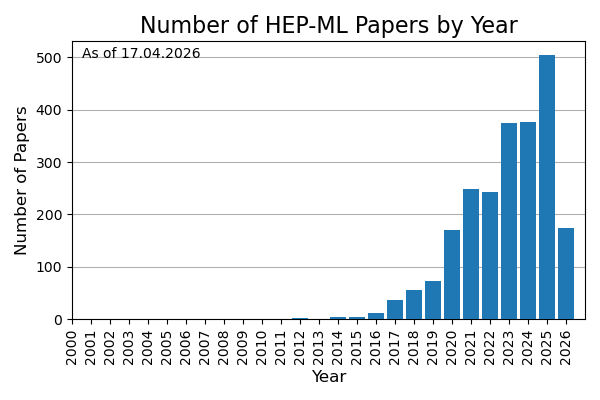
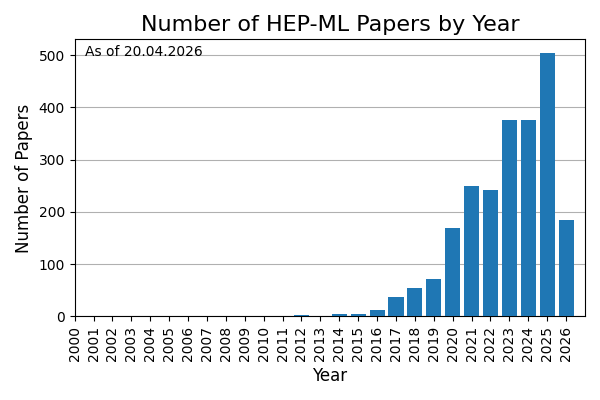
Update 26 04 20 (#274)
* Weekly update CW 16

* Update check_inspire

* [pre-commit.ci] auto fixes from pre-commit.com hooks

for more information, see https://pre-commit.ci

* Fix missing citations

* [pre-commit.ci] auto fixes from pre-commit.com hooks

for more information, see https://pre-commit.ci

---------

diff --git a/HEPML.tex b/HEPML.tex
@@ -95,7 +95,7 @@ This review was built with the help of the HEP-ML community, the INSPIRE REST AP
 			\\\textit{Neutrino detectors are very large in order to have a sizable rate of neutrino detection.  The entire neutrino interaction can be characterized to distinguish different neutrino flavors.}
 			\item \textbf{Direct Dark Matter Detectors}~\cite{Amaro:2025ssv,Cerdeno:2024uqt,Ghrear:2024rku,XENONCollaboration:2023dar,Biassoni:2023lih,Li:2022tvg,Liang:2021nsz,Herrero-Garcia:2021goa,Coarasa:2021fpv,McDonald:2021hus,Golovatiuk:2021lqn,Khosa:2019qgp,Akerib:2020aws,Ilyasov_2020}
 			\\\textit{Dark matter detectors are similar to neutrino detectors, but aim to achieve `zero' background.}
-			\item \textbf{Cosmology, Astro Particle, and Cosmic Ray physics}~\cite{Santelj:2026dma,Lai:2026hhg,Mikuni:2025ocp,Romano:2025bxp,TelescopeArray:2025lcs,Li:2025djo,Choudhury:2025hqg,PierreAuger:2025cic,Hallin:2025wyc,Macias:2025crt,IceCube:2025swy,Heneka:2025fpe,Erdmann:2025xpm,Takahashi:2024bxx,Heisig:2024jkk,Ahn:2024lkh,Hatefi:2024asc,Yoon:2024pbz,Riehn:2024prp,Kalaczynski:2024wxa,Thakur:2024mxs,Guo:2023mhf,Hatefi:2023gpj,Krastev:2023fnh,Cai:2023gol,Carvalho:2023ele,Zhou:2023cfs,Kim:2023wuk,Goriely:2022upe,Nguyen:2022ldb,Zhang:2022djp,Abel:2022nje,Sun:2022djj,Glauch:2022xth,Montel:2022fhv,De:2022sde,Chen:2019avc,Bister:2021arb,Mishra-Sharma:2021oxe,Mishra-Sharma:2021nhh,Sabiu:2021aea,Kahlhoefer:2021sha,List:2021aer,Vago:2021grx,Aizpuru:2021vhd,Ikeda:2021sxm,Shih:2021kbt,1853992,Arjona:2021hmg,Han:2021kjx,Droz:2021wnh,huang2021convolutionalneuralnetwork,Conceicao:2021xgn,gonzalez2021tackling,Balazs:2021uhg,Aab:2021rcn,Verma:2020gnq,Tsai:2020vcx,Brehmer:2019jyt,Ostdiek:2020cqz}
+			\item \textbf{Cosmology, Astro Particle, and Cosmic Ray physics}~\cite{Ahmed:2026agd,Santelj:2026dma,Lai:2026hhg,Mikuni:2025ocp,Romano:2025bxp,TelescopeArray:2025lcs,Li:2025djo,Choudhury:2025hqg,PierreAuger:2025cic,Hallin:2025wyc,Macias:2025crt,IceCube:2025swy,Heneka:2025fpe,Erdmann:2025xpm,Takahashi:2024bxx,Heisig:2024jkk,Ahn:2024lkh,Hatefi:2024asc,Yoon:2024pbz,Riehn:2024prp,Kalaczynski:2024wxa,Thakur:2024mxs,Guo:2023mhf,Hatefi:2023gpj,Krastev:2023fnh,Cai:2023gol,Carvalho:2023ele,Zhou:2023cfs,Kim:2023wuk,Goriely:2022upe,Nguyen:2022ldb,Zhang:2022djp,Abel:2022nje,Sun:2022djj,Glauch:2022xth,Montel:2022fhv,De:2022sde,Chen:2019avc,Bister:2021arb,Mishra-Sharma:2021oxe,Mishra-Sharma:2021nhh,Sabiu:2021aea,Kahlhoefer:2021sha,List:2021aer,Vago:2021grx,Aizpuru:2021vhd,Ikeda:2021sxm,Shih:2021kbt,1853992,Arjona:2021hmg,Han:2021kjx,Droz:2021wnh,huang2021convolutionalneuralnetwork,Conceicao:2021xgn,gonzalez2021tackling,Balazs:2021uhg,Aab:2021rcn,Verma:2020gnq,Tsai:2020vcx,Brehmer:2019jyt,Ostdiek:2020cqz}
 			\\\textit{Machine learning is often used in astrophysics and cosmology in different ways than terrestrial particle physics experiments due to a general divide between Bayesian and Frequentist statistics.  However, there are many similar tasks and a growing number of proposals designed for one domain that apply to the other.  See also https://github.com/georgestein/ml-in-cosmology.}
 			\item \textbf{Tracking}~\cite{Coccaro:2026jod,Renusch:2026tko,Argenton:2026zxr,Das:2026mff,Liyan:2026pbd,Reuter:2026pdv,CMS:2026znb,Dispoto:2025zyz,Coccaro:2025rfu,Govil:2025nvy,Parpillon:2025tlm,Blankestijn:2025hvg,Caron:2025yaa,Condren:2025czc,Miller:2025svo,Coradin:2025ees,VanStroud:2024fau,Caron:2024cyo,Guiang:2024qzk,Gavalian:2024icb,Huang:2024voo,Allaire:2023llb,Allaire:2023dfg,Mieskolainen:2023hkz,Akar:2023zhd,Knipfer:2023zrv,Bae:2023eec,Abidi:2022ogh,Sun:2022bxx,Akram:2022zmj,Bakina:2022mhs,Alonso-Monsalve:2022zlm,Wang:2022oer,Goncharov:2021wvd,Huth:2021zcm,Lavrik:2021zgt,Edmonds:2021lzd,Dezoort:2021kfk,Ju:2021ayy,Thais:2021qcb,Akar:2021gns,Biscarat:2021dlj,goto2021development,Amrouche:2021tlm,Fox:2020hfm,Siviero:2020tim,Choma:2020cry,Shlomi:2020ufi,Akar:2020jti,Ju:2020xty,Amrouche:2019wmx,Farrell:2018cjr,Farrell:DLPS2017}
 			\\\textit{Charged particle tracking is a challenging pattern recognition task.  This category is for various classification tasks associated with tracking, such as seed selection.}
@@ -113,7 +113,7 @@ This review was built with the help of the HEP-ML community, the INSPIRE REST AP
                                   \\\textit{When no labels are provided, the learning is called unsupervised.}
 				\item \textbf{Reinforcement Learning}~\cite{Adriamirado:2026rvn,Alexander:2026lpw,deSouza:2026sta,Zoccheddu:2026cjr,Giarnetti:2025mit,Mendizabal:2025sbf,Dillon:2025dxr,Baretz:2025zsv,Zeng:2025xbh,Nishimura:2024apb,Angloher:2023oya,Alvestad:2023jgl,Nishimura:2023wdu,Dersy:2022bym,Windisch:2021mem,Cranmer:2021gdt,Harvey:2021oue,John:2020sak,Brehmer:2020brs,Carrazza:2019efs}
 				\\\textit{Instead of learning to distinguish different types of examples, the goal of reinforcement learning is to learn a strategy (policy).  The prototypical example of reinforcement learning in learning a strategy to play video games using some kind of score as a feedback during the learning.}
-				\item \textbf{Quantum Machine Learning}~\cite{Addepalli:2026hwb,Rodrigo:2026atx,Argenton:2026zxr,Knipfer:2026kng,Islam:2026baq,Le:2026xub,Rodrigo:2026xom,Napolitano:2025mhl,MartinezdeLejarzaSamper:2025wuy,Odagiu:2025ifc,Okawa:2025ley,AitHaddou:2025fam,Bal:2025yxb,Maier:2025ppr,Ali:2025gni,Le:2025swl,Pyretzidis:2025stx,Rodriguez-Grasa:2025ggh,Casals:2025cuc,Yin:2025hnt,Le:2025swl,Duffy:2025hsl,Bal:2025ydm,Hammad:2024dsn,Scott:2024txs,Yang:2024bqw,Nelakurti:2024xol,Zhang:2024ebl,Lazar:2024luq,Chen:2024rna,Hoque:2023zjt,Hammad:2023wme,Rehm:2023ovj,Schuhmacher:2023pro,Wozniak:2023xbe,Rousselot:2023pcj,Duckett:2022ccc,Araz:2022zxk,Peixoto:2022zzk,Alvi:2022fkk,Delgado:2022aty,Araz:2022haf,Abel:2022lqr,Gianelle:2022unu,Ngairangbam:2021yma,Kim:2021wrr,Bravo-Prieto:2021ehz,Araz:2021ifk,Belis:2021zqi,Wu:2021xsj,Heredge:2021vww,Blance:2021gcs,Chen:2021ouz,Guan:2020bdl,Wu:2020cye,Chen:2020zkj,Terashi:2020wfi,Blance:2020nhl,Zlokapa:2019lvv,Mott:2017xdb}
+				\item \textbf{Quantum Machine Learning}~\cite{Sawaika:2026qxa,Addepalli:2026hwb,Rodrigo:2026atx,Argenton:2026zxr,Knipfer:2026kng,Islam:2026baq,Le:2026xub,Rodrigo:2026xom,Napolitano:2025mhl,MartinezdeLejarzaSamper:2025wuy,Odagiu:2025ifc,Okawa:2025ley,AitHaddou:2025fam,Bal:2025yxb,Maier:2025ppr,Ali:2025gni,Le:2025swl,Pyretzidis:2025stx,Rodriguez-Grasa:2025ggh,Casals:2025cuc,Yin:2025hnt,Le:2025swl,Duffy:2025hsl,Bal:2025ydm,Hammad:2024dsn,Scott:2024txs,Yang:2024bqw,Nelakurti:2024xol,Zhang:2024ebl,Lazar:2024luq,Chen:2024rna,Hoque:2023zjt,Hammad:2023wme,Rehm:2023ovj,Schuhmacher:2023pro,Wozniak:2023xbe,Rousselot:2023pcj,Duckett:2022ccc,Araz:2022zxk,Peixoto:2022zzk,Alvi:2022fkk,Delgado:2022aty,Araz:2022haf,Abel:2022lqr,Gianelle:2022unu,Ngairangbam:2021yma,Kim:2021wrr,Bravo-Prieto:2021ehz,Araz:2021ifk,Belis:2021zqi,Wu:2021xsj,Heredge:2021vww,Blance:2021gcs,Chen:2021ouz,Guan:2020bdl,Wu:2020cye,Chen:2020zkj,Terashi:2020wfi,Blance:2020nhl,Zlokapa:2019lvv,Mott:2017xdb}
 				\\\textit{Quantum computers are based on unitary operations applied to quantum states.  These states live in a vast Hilbert space which may have a usefully large information capacity for machine learning.}
 				\item \textbf{Feature ranking}~\cite{Das:2022cjl,Grojean:2020ech,Faucett:2020vbu}
 				\\\textit{It is often useful to take a set of input features and rank them based on their usefulness.}
@@ -148,9 +148,9 @@ This review was built with the help of the HEP-ML community, the INSPIRE REST AP
 		\\\textit{Regression methods can be used as surrogate models for functions that are too slow to evaluate.  One important class of functions are matrix elements, which form the core component of cross section calculations in quantum field theory.}
 		\item \textbf{Parameter estimation}~\cite{deNoyers:2025ije,Guo:2025zpk,Mir:2025wxg,Borsato:2025nng,Thakur:2025oyn,Tong:2025jnd,PierreAuger:2025cic,Dimitrova:2025mbl,Miller:2025svo,Abasov:2025ntj,Hammad:2025ewr,Vasilev:2025dff,Biro:2024tzv,Simkina:2023ztj,Dubey:2023pro,Yang:2023rbg,Schroder:2023akt,Goos:2023opq,Shi:2023xfz,AlHammal:2023svo,Qiu:2023ihi,Garg:2022tal,Meng:2022lmd,Castro:2022zpq,Craven:2021ems,Alda:2021rgt,Kim:2021pcz,Lazzarin:2020uvv,1808105,Lei:2020ucb}
 		\\\textit{The target features could be parameters of a model, which can be learned directly through a regression setup.  Other forms of inference are described in later sections (which could also be viewed as regression).}
-		\item \textbf{Parton Distribution Functions (and related)}~\cite{Alharazin:2026wfh,Khanpour:2026erj,Cruz-Martinez:2026rct,Dai:2026tjl,Chiefa:2025cap,Watkins:2025apc,Fernando:2025xzv,Chu:2025jsi,Mahaut:2025hie,Kriesten:2025gti,Costantini:2025wxp,Singireddy:2025biy,Barontini:2025lnl,Soleymaninia:2025cvi,Cruz-Martinez:2025ahf,Bacchetta:2025ara,Chowdhury:2024ymm,Kriesten:2024are,Liuti:2024umy,Yan:2024yir,Barontini:2024dyb,Ochoa-Oregon:2024zgm,Soleymaninia:2024jam,Bertone:2024taw,Costantini:2024xae,Gombas:2024rvw,DallOlio:2024vjv,NNPDF:2024dpb,NNPDF:2024djq,Kriesten:2023uoi,Rabemananjara:2023xfq,Fernando:2023obn,Wang:2023poi,Kassabov:2023hbm,Wang:2023nab,Candido:2023utz,Gao:2022srd,Gao:2022uhg,Iranipour:2022iak,Khalek:2021gon,Ball:2021xlu,Ball:2021leu,Carrazza:2021hny,Rossi:2020sbh,Grigsby:2020auv,DelDebbio:2020rgv}
+		\item \textbf{Parton Distribution Functions (and related)}~\cite{Barrue:2026qul,Kang:2026mod,Alharazin:2026wfh,Khanpour:2026erj,Cruz-Martinez:2026rct,Dai:2026tjl,Chiefa:2025cap,Watkins:2025apc,Fernando:2025xzv,Chu:2025jsi,Mahaut:2025hie,Kriesten:2025gti,Costantini:2025wxp,Singireddy:2025biy,Barontini:2025lnl,Soleymaninia:2025cvi,Cruz-Martinez:2025ahf,Bacchetta:2025ara,Chowdhury:2024ymm,Kriesten:2024are,Liuti:2024umy,Yan:2024yir,Barontini:2024dyb,Ochoa-Oregon:2024zgm,Soleymaninia:2024jam,Bertone:2024taw,Costantini:2024xae,Gombas:2024rvw,DallOlio:2024vjv,NNPDF:2024dpb,NNPDF:2024djq,Kriesten:2023uoi,Rabemananjara:2023xfq,Fernando:2023obn,Wang:2023poi,Kassabov:2023hbm,Wang:2023nab,Candido:2023utz,Gao:2022srd,Gao:2022uhg,Iranipour:2022iak,Khalek:2021gon,Ball:2021xlu,Ball:2021leu,Carrazza:2021hny,Rossi:2020sbh,Grigsby:2020auv,DelDebbio:2020rgv}
 		\\\textit{Various machine learning models can provide flexible function approximators, which can be useful for modeling functions that cannot be determined easily from first principles such as parton distribution functions.}
-		\item \textbf{Lattice Gauge Theory}~\cite{Singha:2026slc,Mayer-Steudte:2026vaf,Singh:2026zls,Albergo:2026fwx,Hsiao:2026fdd,Pfahler:2026fpj,Alharazin:2026lcb,Bellscheidt:2026rjh,Bonanno:2026tle,Kanwar:2025wuc,Bulgarelli:2025ewp,Shen:2025zkj,Vega:2025hgz,Bonanno:2025pdp,Li:2025jkm,Chu:2025jsi,Spriggs:2025sea,Sun:2025evk,Kriesten:2025gti,Cheng:2025khv,Holland:2025fsa,Favoni:2025ghc,Blum:2025woh,Zhu:2025pmw,Lawrence:2025rnk,Holland:2025dxf,Chen:2025kfo,Nagai:2025rok,Aarts:2025gyp,Vega:2024ngr,Caselle:2024uen,Aarts:2024agm,Habibi:2024fbn,Choi:2024ryu,Kou:2024hzd,Zhu:2024kiu,Gerdes:2024rjk,Wang:2024ykk,Rovira:2024aqd,Gao:2024zdz,Luo:2024iwf,Gao:2024nzg,Bachtis:2024dss,Jiang:2024vsr,Cai:2024eqa,Bachtis:2024vks,Apte:2024vwn,Xu:2024tjp,Chen:2024mmd,Bai:2024pii,Abbott:2024knk,Finkenrath:2024tdp,Kim:2024rpd,Lin:2024eiz,Bonanno:2024udh,Chu:2024swv,Boyle:2024nlh,Chen:2024ckb,Catumba:2024wxc,Holland:2024muu,Goswami:2024jlc,Kanwar:2024ujc,Lawrence:2023cft,Foreman:2023ymy,Gao:2023quv,Holland:2023lfx,Soloveva:2023tvj,Gao:2023uel,Wang:2023sry,Tomiya:2023jdy,Alvestad:2023jgl,Albandea:2023ais,Ermann:2023unw,Kashiwa:2023dfx,Detmold:2023kjm,Caselle:2023mvh,Buzzicotti:2023qdv,Riberdy:2023awf,Singha:2023xxq,Lehner:2023prf,NarcisoFerreira:2023kak,Bender:2023gwr,R:2023dcr,Hudspith:2023loy,Zhou:2023pti,Aronsson:2023rli,Nicoli:2023qsl,Albandea:2023wgd,Lehner:2023bba,Peng:2022wdl,Lawrence:2022dba,Aguilar:2022thg,Gao:2022uhg,Bacchio:2022vje,Bacchio:2022vje,Chen:2022asj,Favoni:2022mcg,Karsch:2022yka,Kim:2022rna,Sale:2022snt,Khan:2022vot,Albandea:2022fky,Kang:2022jbg,Li:2022ozl,Chen:2022ytr,Luo:2022jzl,Shi:2022yqw,Bulusu:2021njs,Chen:2021jey,Favoni:2021epq,Nguyen:2019gpo,Zhang:2019qiq,Yoon:2018krb,Hackett:2021idh,Shi:2021qri,Bulusu:2021rqz,Favoni:2020reg,Kanwar:2003.06413}
+		\item \textbf{Lattice Gauge Theory}~\cite{Wenger:2026sjp,Singha:2026slc,Mayer-Steudte:2026vaf,Singh:2026zls,Albergo:2026fwx,Hsiao:2026fdd,Pfahler:2026fpj,Alharazin:2026lcb,Bellscheidt:2026rjh,Bonanno:2026tle,Kanwar:2025wuc,Bulgarelli:2025ewp,Shen:2025zkj,Vega:2025hgz,Bonanno:2025pdp,Li:2025jkm,Chu:2025jsi,Spriggs:2025sea,Sun:2025evk,Kriesten:2025gti,Cheng:2025khv,Holland:2025fsa,Favoni:2025ghc,Blum:2025woh,Zhu:2025pmw,Lawrence:2025rnk,Holland:2025dxf,Chen:2025kfo,Nagai:2025rok,Aarts:2025gyp,Vega:2024ngr,Caselle:2024uen,Aarts:2024agm,Habibi:2024fbn,Choi:2024ryu,Kou:2024hzd,Zhu:2024kiu,Gerdes:2024rjk,Wang:2024ykk,Rovira:2024aqd,Gao:2024zdz,Luo:2024iwf,Gao:2024nzg,Bachtis:2024dss,Jiang:2024vsr,Cai:2024eqa,Bachtis:2024vks,Apte:2024vwn,Xu:2024tjp,Chen:2024mmd,Bai:2024pii,Abbott:2024knk,Finkenrath:2024tdp,Kim:2024rpd,Lin:2024eiz,Bonanno:2024udh,Chu:2024swv,Boyle:2024nlh,Chen:2024ckb,Catumba:2024wxc,Holland:2024muu,Goswami:2024jlc,Kanwar:2024ujc,Lawrence:2023cft,Foreman:2023ymy,Gao:2023quv,Holland:2023lfx,Soloveva:2023tvj,Gao:2023uel,Wang:2023sry,Tomiya:2023jdy,Alvestad:2023jgl,Albandea:2023ais,Ermann:2023unw,Kashiwa:2023dfx,Detmold:2023kjm,Caselle:2023mvh,Buzzicotti:2023qdv,Riberdy:2023awf,Singha:2023xxq,Lehner:2023prf,NarcisoFerreira:2023kak,Bender:2023gwr,R:2023dcr,Hudspith:2023loy,Zhou:2023pti,Aronsson:2023rli,Nicoli:2023qsl,Albandea:2023wgd,Lehner:2023bba,Peng:2022wdl,Lawrence:2022dba,Aguilar:2022thg,Gao:2022uhg,Bacchio:2022vje,Bacchio:2022vje,Chen:2022asj,Favoni:2022mcg,Karsch:2022yka,Kim:2022rna,Sale:2022snt,Khan:2022vot,Albandea:2022fky,Kang:2022jbg,Li:2022ozl,Chen:2022ytr,Luo:2022jzl,Shi:2022yqw,Bulusu:2021njs,Chen:2021jey,Favoni:2021epq,Nguyen:2019gpo,Zhang:2019qiq,Yoon:2018krb,Hackett:2021idh,Shi:2021qri,Bulusu:2021rqz,Favoni:2020reg,Kanwar:2003.06413}
 		\\\textit{Lattice methods offer a complementary approach to perturbation theory.  A key challenge is to create approaches that respect the local gauge symmetry (equivariant networks).}
 		\item \textbf{Function Approximation}~\cite{Jones:2026tkf,Ghalenovi:2024scv,Wolf:2024zkz,Rovira:2024aqd,Hirst:2024abn,Reyes-Gonzalez:2023oei,Fernando:2023obn,Wang:2023nab,Lei:2022dvn,Kitouni:2021fkh,Wang:2021jou,Chahrour:2021eiv,Haddadin:2021mmo,Coccaro:2019lgs,1853982}
 		\\\textit{Approximating functions that obey certain (physical) constraints.}
@@ -188,19 +188,19 @@ This review was built with the help of the HEP-ML community, the INSPIRE REST AP
                   \\\textit{These are non-parametric tools for modeling the `time'-dependence of a random variable.  The `time' need not be actual time --- for instance, one can use Gaussian processes to model the energy dependence of some probability density.}
                 \item \textbf{Evaluation of Generative Models}~\cite{Pang:2025lbs,Cappelli:2025myc,Grossi:2025pmm,Krause:2024avx,Grossi:2024axb,Ahmad:2024dql,Gavranovic:2023oam,Das:2023ktd,Kansal:2022spb,Krause:2021ilc}
                   \\\textit{Once a generative model is trained, the quality of its samples needs to be determined. This can be done using non-parametric methods or other machine learning models, for example classifiers.}
-		\item \textbf{Other/hybrid}~\cite{Sahu:2023uwb,Santos:2023mib,Kronheim:2023jrl,Butter:2023fov,Kansal:2022spb,Li:2022jon,DiBello:2022rss,Cresswell:2022tof}
+		\item \textbf{Other/hybrid}~\cite{Lo:2026use,Rajendram:2026rdp,Sahu:2023uwb,Santos:2023mib,Kronheim:2023jrl,Butter:2023fov,Kansal:2022spb,Li:2022jon,DiBello:2022rss,Cresswell:2022tof}
 		\\\textit{Architectures that combine different network elements or otherwise do not fit into the other categories.}
 	\end{itemize}
 \item \textbf{Anomaly detection}~\cite{Gurkanli:2026dvl,Li:2026azw,Addepalli:2026hwb,Mikuni:2026ced,Breso-Pla:2026tlz,Patel:2026npj,Julson:2026lhf,Amaro:2026vga,Amaro:2025jic,CMS:2025sch,Hein:2025ysv,Cepaitis:2024yuy,Bhargava:2025xig,Islam:2025eas,DAgnolo:2025qqr,Hein:2025uhj,Liu:2025kfw,Gerlach:2025brx,CMS:2025lmn,DAvanzo:2025tkf,Arguin:2025lyr,Hallin:2025wyc,Boggia:2025fjj,Ragoni:2025mju,ATLAS:2025cdi,Cheng:2025qhg,Vaselli:2025zkl,ClarkeHall:2025oiz,Dillon:2025yqe,Araz:2025oax,Puljak:2025gtj,Cheng:2025ewj,deSouza:2025riy,ATLAS:2025kuz,Hou:2025prp,Brennan:2025fqy,Chekanov:2025xpk,Banda:2025nrv,Chen:2025mxf,Klein:2025lbj,Chowdhury:2025mul,Oleksiyuk:2025pmu,Metzger:2025ecl,Gambhir:2025afb,ATLAS:2025obc,Brinkerhoff:2025rob,Khot:2025kqg,Arguin:2025ewq,CMS:2024nsz,Hammad:2024dsn,Das:2024fwo,DARWIN:2024unx,Duarte:2024lsg,Zhang:2024ebl,Chekanov:2024ezm,Matos:2024ggs,Caron:2024zxk,Harilal:2024tqq,Leigh:2024chm,Grosso:2024nho,Li:2024htp,Cheng:2024yig,Oleksiyuk:2024hru,Krause:2023uww,Sengupta:2023vtm,Zipper:2023ybp,Metodiev:2023izu,Liu:2023djx,Zhang:2023khv,Bai:2023yyy,Grosso:2023owo,Freytsis:2023cjr,Buhmann:2023acn,Finke:2023ltw,Bickendorf:2023nej,CMSECAL:2023fvz,Chekanov:2023uot,ATLAS:2023azi,Vaslin:2023lig,Golling:2023yjq,Mikuni:2023tok,Sengupta:2023xqy,Golling:2023juz,Roche:2023int,Schuhmacher:2023pro,Mastandrea:2022vas,Araz:2022zxk,Kasieczka:2022naq,Hallin:2022eoq,Kamenik:2022qxs,Park:2022zov,Caron:2022wrw,Dillon:2022mkq,Verheyen:2022tov,Finke:2022lsu,Fanelli:2022xwl,Letizia:2022xbe,Raine:2022hht,Birman:2022xzu,Dillon:2022tmm,Jiang:2022sfw,Alvi:2022fkk,Buss:2022lxw,Aguilar-Saavedra:2022ejy,Bradshaw:2022qev,Ngairangbam:2021yma,Canelli:2021aps,dAgnolo:2021aun,Chekanov:2021pus,Mikuni:2021nwn,Lester:2021aks,Tombs:2021wae,Aguilar-Saavedra:2021utu,Herrero-Garcia:2021goa,Jawahar:2021vyu,Fraser:2021lxm,Ostdiek:2021bem,Hallin:2021wme,Govorkova:2021utb,Volkovich:2021txe,Kasieczka:2021tew,Govorkova:2021hqu,Caron:2021wmq,Dorigo:2021iyy,Aarrestad:2021oeb,Kahn:2021drv,Atkinson:2021nlt,Shih:2021kbt,Finke:2021sdf,Dillon:2021nxw,Collins:2021nxn,Bortolato:2021zic,Blance:2021gcs,Batson:2021agz,Chakravarti:2021svb,Kasieczka:2021xcg,Stein:2020rou,Faroughy:2020gas,Park:2020pak,vanBeekveld:2020txa,Mikuni:2020qds,pol2020anomaly,1815227,aguilarsaavedra2020mass,Alexander:2020mbx,Thaprasop:2020mzp,Khosa:2020qrz,Cheng:2020dal,Amram:2020ykb,1800445,1797846,collaboration2020dijet,knapp2020adversarially,Romao:2020ojy,Romao:2019dvs,Aguilar-Saavedra:2017rzt,Nachman:2020lpy,Andreassen:2020nkr,Dillon:2019cqt,1809.02977,Mullin:2019mmh,DeSimone:2018efk,Hajer:2018kqm,Blance:2019ibf,Cerri:2018anq,Roy:2019jae,Heimel:2018mkt,Farina:2018fyg,DAgnolo:2019vbw,Collins:2019jip,Collins:2018epr,DAgnolo:2018cun}
 \\\textit{The goal of anomaly detection is to identify abnormal events.  The abnormal events could be from physics beyond the Standard Model or from faults in a detector.  While nearly all searches for new physics are technically anomaly detection, this category is for methods that are mode-independent (broadly defined).  Anomalies in high energy physics tend to manifest as over-densities in phase space (often called `population anomalies') in contrast to off-manifold anomalies where you can flag individual examples as anomalous. }
-\item \textbf{Foundation Models, LLMs, Agents}~\cite{Alonso-Monsalve:2026okj,Shih:2026jfe,Jat:2026yxv,Cardona-Giraldo:2026rnn,Menzo:2026qrl,Mikuni:2026ced,Agrawal:2026lvg,Tan:2026ier,Moreno:2026mqk,Qiu:2026iby,Shih:2026lmy,Mallampalli:2026hrl,Breso-Pla:2026tlz,Li:2026krn,Badea:2026klb,Atif:2026eju,Knipfer:2026kng,Hill:2026naa,Esmail:2026jpb,Plehn:2026gxv,Hsu:2026sww,Elsharkawy:2026kwp,Zoccheddu:2026cjr,Rafique:2025xeo,Mikuni:2025ocp,DasBakshi:2025dcg,Menzo:2025cim,Gendreau-Distler:2025fsj,Birk:2025fbs,Sulc:2025odu,Young:2025qbx,Mermer:2025mcf,Abasov:2025dak,Bhimji:2025isp,Song:2025odk,Morales-Alvarado:2025isx,Bakshi:2025fgx,Visive:2025flm,Hallin:2025ywf,Diefenbacher:2025zzn,Sagar:2025mrd,Li:2025vvr,McGreivy:2025rrz,Sagar:2025ebh,Park:2025ebs,Barman:2025kqr,Algren:2025zff,Saqlain:2025owc,Heneka:2025fpe,Giroux:2025elr,Tani:2025osu,Mikuni:2025tar,Barman:2025wfb,Amram:2024fjg,Ho:2024qyf,OmanaKuttan:2024mwr,Wildridge:2024yeg,Leigh:2024ked,Mikuni:2024qsr,Zhang:2024kws,Fanelli:2024ktq,Harris:2024sra,Birk:2024knn,Vigl:2024lat}
+\item \textbf{Foundation Models, LLMs, Agents}~\cite{Krzmanc:2026fdw,Alonso-Monsalve:2026okj,Shih:2026jfe,Jat:2026yxv,Cardona-Giraldo:2026rnn,Menzo:2026qrl,Mikuni:2026ced,Agrawal:2026lvg,Tan:2026ier,Moreno:2026mqk,Qiu:2026iby,Shih:2026lmy,Mallampalli:2026hrl,Breso-Pla:2026tlz,Li:2026krn,Badea:2026klb,Atif:2026eju,Knipfer:2026kng,Hill:2026naa,Esmail:2026jpb,Plehn:2026gxv,Hsu:2026sww,Elsharkawy:2026kwp,Zoccheddu:2026cjr,Rafique:2025xeo,Mikuni:2025ocp,DasBakshi:2025dcg,Menzo:2025cim,Gendreau-Distler:2025fsj,Birk:2025fbs,Sulc:2025odu,Young:2025qbx,Mermer:2025mcf,Abasov:2025dak,Bhimji:2025isp,Song:2025odk,Morales-Alvarado:2025isx,Bakshi:2025fgx,Visive:2025flm,Hallin:2025ywf,Diefenbacher:2025zzn,Sagar:2025mrd,Li:2025vvr,McGreivy:2025rrz,Sagar:2025ebh,Park:2025ebs,Barman:2025kqr,Algren:2025zff,Saqlain:2025owc,Heneka:2025fpe,Giroux:2025elr,Tani:2025osu,Mikuni:2025tar,Barman:2025wfb,Amram:2024fjg,Ho:2024qyf,OmanaKuttan:2024mwr,Wildridge:2024yeg,Leigh:2024ked,Mikuni:2024qsr,Zhang:2024kws,Fanelli:2024ktq,Harris:2024sra,Birk:2024knn,Vigl:2024lat}
   \\\textit{A foundation model is a machine learning or deep learning model that is trained on broad data such that it can be applied across a wide range of use cases.}
 \item \textbf{Kolmogorov-Arnold Networks (KANs)}~\cite{He:2026tev,Hoang:2025sdb,Jeong:2025omu,Dai:2025dir,Kou:2024hzd,Abasov:2024hyq,Erdmann:2024unt}
   \\\textit{Kolmogorov-Arnold Networks (KANs) are alternatives to standard multi-layer perceptrons in which instead of fixed activation functions on nodes (``neurons'') have learnable activation functions on edges (``weights''). This makes them more expressible and interpretable compared to multi-layer perceptrons.}
 \item \textbf{Simulation-based (`likelihood-free') Inference}
 \\\textit{Likelihood-based inference is the case where $p(x|\theta)$ is known and $\theta$ can be determined by maximizing the probability of the data.  In high energy physics, $p(x|\theta)$ is often not known analytically, but it is often possible to sample from the density implicitly using simulations.}
 	\begin{itemize}
-		\item \textbf{Parameter estimation}~\cite{Pagayon:2026byc,Woodward:2026jnx,Tame-Narvaez:2026zmc,Valsecchi:2026kpp,Villarreal:2025gux,Gavranovic:2025wcj,Heyer:2025cpw,Tame-Narvaez:2025pwg,Bahl:2025mib,Silva:2025hzo,Macias:2025crt,Hammad:2025wst,Bhattacharya:2025ave,Gavrikov:2025rps,Sadasivan:2025kjj,Villarreal:2025ged,Ghosh:2025fma,Amram:2025vqw,Shyamsundar:2025eht,Elsharkawy:2025six,Benato:2025rgo,Hammad:2025ewr,Hirono:2025aqc,Zhang:2025mmm,Nishimura:2025knz,Acosta:2025lsu,Sluijter:2025isc,Araz:2025ezp,DeLuca:2025ruv,Villarreal:2025mhv,Aarts:2025gyp,Alda:2024sup,ATLAS:2024ynn,Heimel:2024drk,Maitre:2024hzp,Bahl:2024meb,JETSCAPE:2024cqe,Mastandrea:2024irf,Diaz:2024yfu,Alvarez:2024owq,Chatterjee:2024pbp,Chai:2024zyl,Heimel:2023mvw,Espejo:2023wzf,Barrue:2023ysk,Morandini:2023pwj,Erdogan:2023uws,Breitenmoser:2023tmi,Heinrich:2023bmt,Rizvi:2023mws,Neubauer:2022gbu,Butter:2022vkj,Arganda:2022zbs,Kong:2022rnd,Arganda:2022qzy,Bahl:2021dnc,Barman:2021yfh,Mishra-Sharma:2021oxe,NEURIPS2020_a878dbeb,Chatterjee:2021nms,Nachman:2021yvi,Bieringer:2020tnw,Flesher:2020kuy,Coogan:2020yux,Andreassen:2020gtw,Cranmer:2015bka,Brehmer:2018hga,Brehmer:2019xox,Brehmer:2018eca,Brehmer:2018kdj,Hollingsworth:2020kjg,Stoye:2018ovl,Andreassen:2019nnm}
+		\item \textbf{Parameter estimation}~\cite{Barrue:2026qul,Pagayon:2026byc,Woodward:2026jnx,Tame-Narvaez:2026zmc,Valsecchi:2026kpp,Villarreal:2025gux,Gavranovic:2025wcj,Heyer:2025cpw,Tame-Narvaez:2025pwg,Bahl:2025mib,Silva:2025hzo,Macias:2025crt,Hammad:2025wst,Bhattacharya:2025ave,Gavrikov:2025rps,Sadasivan:2025kjj,Villarreal:2025ged,Ghosh:2025fma,Amram:2025vqw,Shyamsundar:2025eht,Elsharkawy:2025six,Benato:2025rgo,Hammad:2025ewr,Hirono:2025aqc,Zhang:2025mmm,Nishimura:2025knz,Acosta:2025lsu,Sluijter:2025isc,Araz:2025ezp,DeLuca:2025ruv,Villarreal:2025mhv,Aarts:2025gyp,Alda:2024sup,ATLAS:2024ynn,Heimel:2024drk,Maitre:2024hzp,Bahl:2024meb,JETSCAPE:2024cqe,Mastandrea:2024irf,Diaz:2024yfu,Alvarez:2024owq,Chatterjee:2024pbp,Chai:2024zyl,Heimel:2023mvw,Espejo:2023wzf,Barrue:2023ysk,Morandini:2023pwj,Erdogan:2023uws,Breitenmoser:2023tmi,Heinrich:2023bmt,Rizvi:2023mws,Neubauer:2022gbu,Butter:2022vkj,Arganda:2022zbs,Kong:2022rnd,Arganda:2022qzy,Bahl:2021dnc,Barman:2021yfh,Mishra-Sharma:2021oxe,NEURIPS2020_a878dbeb,Chatterjee:2021nms,Nachman:2021yvi,Bieringer:2020tnw,Flesher:2020kuy,Coogan:2020yux,Andreassen:2020gtw,Cranmer:2015bka,Brehmer:2018hga,Brehmer:2019xox,Brehmer:2018eca,Brehmer:2018kdj,Hollingsworth:2020kjg,Stoye:2018ovl,Andreassen:2019nnm}
 		\\\textit{This can also be viewed as a regression problem, but there the goal is typically to do maximum likelihood estimation in contrast to directly minimizing the mean squared error between a function and the target.}
 		\item \textbf{Unfolding}~\cite{Xia:2026ygd,Craig:2026caw,Breso-Pla:2026tlz,Ore:2026qgp,Mohr:2026etm,Zhu:2025uyn,Petitjean:2025tgk,Acosta:2025shf,Butter:2025mek,Barman:2025bpx,Butter:2025via,Badea:2025wzd,Canelli:2025ybb,Falcao:2025jom,Guo:2025wry,Desai:2025mpy,Huang:2025ziq,Acosta:2025lsu,Milton:2025mug,H1:2024mox,Butter:2024vbx,Duarte:2024lsg,Zhu:2024drd,Desai:2024kpd,Huetsch:2024quz,Shmakov:2024gkd,Shmakov:2023kjj,Chan:2023tbf,Backes:2022vmn,Arratia:2022wny,Wong:2021zvv,Arratia:2021otl,H1:2021wkz,Komiske:2021vym,Andreassen:2021zzk,Baron:2021vvl,Howard:2021pos,Vandegar:2020yvw,1800956,Zech2003BinningFreeUB,Lindemann:1995ut,Martschei:2012pr,Glazov:2017vni,Gagunashvili:2010zw,Bellagente:2019uyp,Datta:2018mwd,Andreassen:2019cjw,Mieskolainen:2018fhf}
 		\\\textit{This is the task of removing detector distortions.  In contrast to parameter estimation, the goal is not to infer model parameters, but instead, the undistorted phase space probability density.  This is often also called deconvolution.}
@@ -233,7 +233,7 @@ This review was built with the help of the HEP-ML community, the INSPIRE REST AP
 \\\textit{This section is incomplete as there are many results that directly and indirectly (e.g. via flavor tagging) use modern machine learning techniques.  We will try to highlight experimental results that use deep learning in a critical way for the final analysis sensitivity.}
 	\begin{itemize}
 		\item Performance studies~\cite{Wang:2025eur,Pandurovic:2025hmm,Douglas:2024tnl,Kara:2024xkk,Karwowska:2024xqy,Palo:2023xnr,ATLAS:2023zca,Gronroos:2023qff,Jiang:2022zho,NEOS-II:2022mov,Yang:2022dwu,CMS:2022prd}
-		\item Searches and measurements where ML reconstruction is a core component~\cite{ATLAS:2026hnb,Defranchis:2026wyw,CMS:2026shw,CMS:2026wpe,CMS:2026fsx,Subba:2025hxn,Cardini:2025zbp,CMS:2025tre,CMS:2025dsh,Mokhtar:2025ubb,SuperCDMS:2025ywe,IceCube:2025jmv,ATLAS:2025kuz,BESIII:2025biy,Corpe:2025sbw,ATLAS:2025obc,CMS:2024znt,H1:2024mox,ATLAS:2024mrr,BESIII:2024mgg,CMS:2024xzb,ATLAS:2024rua,CMS:2024ddc,CALICE:2024jke,MicroBooNE:2024zhz,ATLAS:2024xxl,CMS:2024zqs,Belle-II:2024vvr,ATLAS:2024itc,CMS:2024vjn,ATLAS:2024auw,CMS:2024fkb,ATLAS:2024fdw,ATLAS:2024ett,CMS:2024trg,ATLAS:2024rcx,Vourliotis:2024bem,BOREXINO:2023pcv,Akar:2023puf,Tung:2023lkv,Belfkir:2023vpo,Dutta:2023jbz,Gravili:2023hbp,NOvA:2023uxq,ATLAS:2023dnm,ATLAS:2023sbu,ATLAS:2023bzb,ATLAS:2023qdu,ATLAS:2023vxg,ATLAS:2023hbp,ATLAS:2023mcc,CMS:2022wjc,Manganelli:2022whv,Tran:2022ago,Li:2022gpb,CMS:2022fxs,CMS:2022idi,ATLAS:2022ihe,MicroBooNE:2021jwr,MicroBooNE:2021nxr,CMS:2019dqq,Keck:2018lcd}
+		\item Searches and measurements where ML reconstruction is a core component~\cite{Atta:2026pam,ATLAS:2026hnb,Defranchis:2026wyw,CMS:2026shw,CMS:2026wpe,CMS:2026fsx,Subba:2025hxn,Cardini:2025zbp,CMS:2025tre,CMS:2025dsh,Mokhtar:2025ubb,SuperCDMS:2025ywe,IceCube:2025jmv,ATLAS:2025kuz,BESIII:2025biy,Corpe:2025sbw,ATLAS:2025obc,CMS:2024znt,H1:2024mox,ATLAS:2024mrr,BESIII:2024mgg,CMS:2024xzb,ATLAS:2024rua,CMS:2024ddc,CALICE:2024jke,MicroBooNE:2024zhz,ATLAS:2024xxl,CMS:2024zqs,Belle-II:2024vvr,ATLAS:2024itc,CMS:2024vjn,ATLAS:2024auw,CMS:2024fkb,ATLAS:2024fdw,ATLAS:2024ett,CMS:2024trg,ATLAS:2024rcx,Vourliotis:2024bem,BOREXINO:2023pcv,Akar:2023puf,Tung:2023lkv,Belfkir:2023vpo,Dutta:2023jbz,Gravili:2023hbp,NOvA:2023uxq,ATLAS:2023dnm,ATLAS:2023sbu,ATLAS:2023bzb,ATLAS:2023qdu,ATLAS:2023vxg,ATLAS:2023hbp,ATLAS:2023mcc,CMS:2022wjc,Manganelli:2022whv,Tran:2022ago,Li:2022gpb,CMS:2022fxs,CMS:2022idi,ATLAS:2022ihe,MicroBooNE:2021jwr,MicroBooNE:2021nxr,CMS:2019dqq,Keck:2018lcd}
 		\item Final analysis discriminate for searches~\cite{CMS:2026uph,ATLAS:2026ovz,ATLAS:2026wyu,CMS:2026mkg,CMS:2026fqd,Davis:2026tpk,Kamiokande:2025hhe,Vami:2025fsl,CMS:2025lmn,ATLAS:2025eoa,CMS:2025fdx,Ali:2025gni,CMS:2025bxo,CMS:2025dpp,Sahoo:2025gig,Li:2025hbv,Manganelli:2022whv,Sirunyan:2020hwz,collaboration2020dijet,Aad:2020hzm,Aad:2019yxi}.
 		\item Measurements using deep learning directly (not through object reconstruction)~\cite{Baihaqi:2025kjd,Electron-PositronAlliance:2025hze,H1:2023fzk,H1:2021wkz}
 	\end{itemize}

diff --git a/check_inspire.py b/check_inspire.py
@@ -20,7 +20,7 @@ starting_date = date.fromisoformat(starting_point)
 categories = ['hep-ph', 'hep-ex', 'hep-lat', 'hep-th', 'physics.ins-det', 'physics.data-an']
 print(f"Looking at arXiv categories: {categories}")
 
-keywords = ['neural network', 'machine learning', 'generative model', 'diffusion model', 'normalizing flow', 'foundation model', 'ML']
+keywords = ['neural network', 'machine learning', 'generative model', 'diffusion model', 'normalizing flow', 'foundation model', 'ML', 'transformers']
 print(f"scanning papers with {keywords}:")
 keyword_str = f'("{keywords}")'.replace("', '", '"%20OR%20"').replace("['", '').replace("']", "")
 keyword_str = keyword_str.replace(" ", "%20")

diff --git a/README.md b/README.md
@@ -908,6 +908,7 @@ This review was built with the help of the HEP-ML community, the [INSPIRE REST A
 
 ####  Cosmology, Astro Particle, and Cosmic Ray physics
 
+* [Radiatively Corrected Hybrid Inflation: Parameter Scans and Machine Learning with ACT and Future CMB Experiments](https://arxiv.org/abs/2604.11068) (2026)
 * [Recent advances and trends in pattern recognition and data analysis for RICH detectors](https://arxiv.org/abs/2603.13000) [[DOI](https://doi.org/10.1016/j.nima.2026.171472)] (2026)
 * [Deep-Learning Denoising of Radio Observations for Ultra-High-Energy Cosmic-Ray Detection](https://arxiv.org/abs/2602.03818) (2026)
 * [OmniCosmos: Transferring Particle Physics Knowledge Across the Cosmos](https://arxiv.org/abs/2512.24422) (2025)
@@ -1252,6 +1253,7 @@ This review was built with the help of the HEP-ML community, the [INSPIRE REST A
 
 ####  Quantum Machine Learning
 
+* [Federated Learning with Quantum Enhanced LSTM for Applications in High Energy Physics](https://arxiv.org/abs/2604.15775) (2026)
 * [Hardware-Aware Tensor Networks for Real-Time Quantum-Inspired Anomaly Detection at Particle Colliders](https://arxiv.org/abs/2603.26604) (2026)
 * [From vacuum amplitudes to qubits](https://arxiv.org/abs/2603.11968) (2026)
 * [Characterization and upgrade of a quantum graph neural network for charged particle tracking](https://arxiv.org/abs/2603.08667) (2026)
@@ -1699,6 +1701,8 @@ This review was built with the help of the HEP-ML community, the [INSPIRE REST A
 
 ###  Parton Distribution Functions (and related)
 
+* [Proton Structure from Neural Simulation-Based Inference at the LHC](https://arxiv.org/abs/2604.13157) (2026)
+* [AI-assisted modeling and Bayesian inference of unpolarized quark transverse momentum distributions from Drell-Yan data](https://arxiv.org/abs/2604.14133) (2026)
 * [Reconstruction of Gravitational Form Factors using Generative Machine Learning](https://arxiv.org/abs/2602.19267) (2026)
 * [Toward Precision Helicity PDFs from Global DIS and SIDIS Fits with Projected EIC Measurements](https://arxiv.org/abs/2602.17298) (2026)
 * [Assessing the Impact of Fitting Methodology at aN$^3$LO with FPPDF: an Open Source Tool for Extracting Parton Distribution Functions in the Hessian Approach](https://arxiv.org/abs/2602.07118) (2026)
@@ -1748,6 +1752,7 @@ This review was built with the help of the HEP-ML community, the [INSPIRE REST A
 
 ###  Lattice Gauge Theory
 
+* [Machine learning for four-dimensional SU(3) lattice gauge theories](https://arxiv.org/abs/2604.12416) (2026)
 * [Scalable Generative Sampling and Multilevel Estimation for Lattice Field Theories Near Criticality](https://arxiv.org/abs/2604.10209) (2026)
 * [Neural network interpolators for Wilson loops](https://arxiv.org/abs/2604.07226) (2026)
 * [Normalizing-flow-based density of states for (1+1)D U(1) lattice gauge theory with a $\theta$-term](https://arxiv.org/abs/2603.12501) (2026)
@@ -2477,6 +2482,8 @@ This review was built with the help of the HEP-ML community, the [INSPIRE REST A
 
 ###  Other/hybrid
 
+* [An AI-based Detector Simulation and Reconstruction Model for the ALEPH Experiment at LEP](https://arxiv.org/abs/2604.11834) (2026)
+* [Symbolic Density Estimation: A Decompositional Approach](https://arxiv.org/abs/2603.27955) (2026)
 * [ML-Based Top Taggers: Performance, Uncertainty and Impact of Tower \& Tracker Data Integration](https://arxiv.org/abs/2309.01568) [[DOI](https://doi.org/10.21468/SciPostPhys.17.6.166)] (2023)
 * [Towards accurate real-time luminescence thermometry: an automated machine learning approach](https://arxiv.org/abs/2307.05497) (2023)
 * [Implicit Quantile Networks For Emulation in Jet Physics](https://arxiv.org/abs/2306.15053) [[DOI](https://doi.org/10.1088/2632-2153/ad9884)] (2023)
@@ -2663,6 +2670,7 @@ This review was built with the help of the HEP-ML community, the [INSPIRE REST A
 
 ##  Foundation Models, LLMs, Agents.
 
+* [Cross-Domain Transfer with Particle Physics Foundation Models: From Jets to Neutrino Interactions](https://arxiv.org/abs/2604.12364) (2026)
 * [Towards foundation-style models for energy-frontier heterogeneous neutrino detectors via self-supervised pre-training](https://arxiv.org/abs/2604.07037) (2026)
 * [Learning to Unscramble Feynman Loop Integrals with SAILIR](https://arxiv.org/abs/2604.05034) (2026)
 * [Retrieval-Augmented Question Answering over Scientific Literature for the Electron-Ion Collider](https://arxiv.org/abs/2604.02259) (2026)
@@ -2741,6 +2749,7 @@ This review was built with the help of the HEP-ML community, the [INSPIRE REST A
 ##  Simulation-based (`likelihood-free') Inference
 ###  Parameter estimation
 
+* [Proton Structure from Neural Simulation-Based Inference at the LHC](https://arxiv.org/abs/2604.13157) (2026)
 * [Deep learning topological inference-guided $T_{cc}^{+}$ pole parameter extraction](https://arxiv.org/abs/2603.17763) (2026)
 * [A Simulation-Based Inference Evaluation of Tension Between MicroBooNE and MiniBooNE Results in a 3+1 Sterile Neutrino Global Fit](https://arxiv.org/abs/2603.15322) (2026)
 * [First Estimation of Model Parameters for Neutrino-Induced Nucleon Knockout Using Simulation-Based Inference](https://arxiv.org/abs/2603.09778) (2026)
@@ -3209,6 +3218,7 @@ This review was built with the help of the HEP-ML community, the [INSPIRE REST A
 
 ###  Searches and measurements where ML reconstruction is a core component
 
+* [Enhancing Event Reconstruction in Hyper-Kamiokande with Machine Learning: A ResNet Implementation](https://arxiv.org/abs/2604.13503) (2026)
 * [Search for long-lived charginos and $τ$-sleptons using final states with a disappearing track in $pp$ collisions at $\sqrt{s}](https://arxiv.org/abs/2603.08315) (2026)
 * [Modern jet flavour tagging in hadronic Z decays with archived ALEPH data](https://arxiv.org/abs/2603.06524) (2026)
 * [Search for heavy scalar resonances decaying to Lorentz-boosted Higgs and Higgs-like bosons in the $\mathrm{b\bar{b}}$4q final state at $\sqrt{s}$](https://arxiv.org/abs/2602.00273) (2026)

diff --git a/docs/index.md b/docs/index.md
@@ -965,6 +965,7 @@ const expandElements = shouldExpand => {
 
     ####  Cosmology, Astro Particle, and Cosmic Ray physics
 
+    * [Radiatively Corrected Hybrid Inflation: Parameter Scans and Machine Learning with ACT and Future CMB Experiments](https://arxiv.org/abs/2604.11068) (2026)
     * [Recent advances and trends in pattern recognition and data analysis for RICH detectors](https://arxiv.org/abs/2603.13000) [[DOI](https://doi.org/10.1016/j.nima.2026.171472)] (2026)
     * [Deep-Learning Denoising of Radio Observations for Ultra-High-Energy Cosmic-Ray Detection](https://arxiv.org/abs/2602.03818) (2026)
     * [OmniCosmos: Transferring Particle Physics Knowledge Across the Cosmos](https://arxiv.org/abs/2512.24422) (2025)
@@ -1314,6 +1315,7 @@ const expandElements = shouldExpand => {
 
     ####  Quantum Machine Learning
 
+    * [Federated Learning with Quantum Enhanced LSTM for Applications in High Energy Physics](https://arxiv.org/abs/2604.15775) (2026)
     * [Hardware-Aware Tensor Networks for Real-Time Quantum-Inspired Anomaly Detection at Particle Colliders](https://arxiv.org/abs/2603.26604) (2026)
     * [From vacuum amplitudes to qubits](https://arxiv.org/abs/2603.11968) (2026)
     * [Characterization and upgrade of a quantum graph neural network for charged particle tracking](https://arxiv.org/abs/2603.08667) (2026)
@@ -1796,6 +1798,8 @@ const expandElements = shouldExpand => {
     ###  Parton Distribution Functions (and related)
     </div>
 
+    * [Proton Structure from Neural Simulation-Based Inference at the LHC](https://arxiv.org/abs/2604.13157) (2026)
+    * [AI-assisted modeling and Bayesian inference of unpolarized quark transverse momentum distributions from Drell-Yan data](https://arxiv.org/abs/2604.14133) (2026)
     * [Reconstruction of Gravitational Form Factors using Generative Machine Learning](https://arxiv.org/abs/2602.19267) (2026)
     * [Toward Precision Helicity PDFs from Global DIS and SIDIS Fits with Projected EIC Measurements](https://arxiv.org/abs/2602.17298) (2026)
     * [Assessing the Impact of Fitting Methodology at aN$^3$LO with FPPDF: an Open Source Tool for Extracting Parton Distribution Functions in the Hessian Approach](https://arxiv.org/abs/2602.07118) (2026)
@@ -1850,6 +1854,7 @@ const expandElements = shouldExpand => {
     ###  Lattice Gauge Theory
     </div>
 
+    * [Machine learning for four-dimensional SU(3) lattice gauge theories](https://arxiv.org/abs/2604.12416) (2026)
     * [Scalable Generative Sampling and Multilevel Estimation for Lattice Field Theories Near Criticality](https://arxiv.org/abs/2604.10209) (2026)
     * [Neural network interpolators for Wilson loops](https://arxiv.org/abs/2604.07226) (2026)
     * [Normalizing-flow-based density of states for (1+1)D U(1) lattice gauge theory with a $\theta$-term](https://arxiv.org/abs/2603.12501) (2026)
@@ -2658,6 +2663,8 @@ const expandElements = shouldExpand => {
     ###  Other/hybrid
     </div>
 
+    * [An AI-based Detector Simulation and Reconstruction Model for the ALEPH Experiment at LEP](https://arxiv.org/abs/2604.11834) (2026)
+    * [Symbolic Density Estimation: A Decompositional Approach](https://arxiv.org/abs/2603.27955) (2026)
     * [ML-Based Top Taggers: Performance, Uncertainty and Impact of Tower \& Tracker Data Integration](https://arxiv.org/abs/2309.01568) [[DOI](https://doi.org/10.21468/SciPostPhys.17.6.166)] (2023)
     * [Towards accurate real-time luminescence thermometry: an automated machine learning approach](https://arxiv.org/abs/2307.05497) (2023)
     * [Implicit Quantile Networks For Emulation in Jet Physics](https://arxiv.org/abs/2306.15053) [[DOI](https://doi.org/10.1088/2632-2153/ad9884)] (2023)
@@ -2850,6 +2857,7 @@ const expandElements = shouldExpand => {
 
 ??? example "Foundation Models, LLMs, Agents."
 
+    * [Cross-Domain Transfer with Particle Physics Foundation Models: From Jets to Neutrino Interactions](https://arxiv.org/abs/2604.12364) (2026)
     * [Towards foundation-style models for energy-frontier heterogeneous neutrino detectors via self-supervised pre-training](https://arxiv.org/abs/2604.07037) (2026)
     * [Learning to Unscramble Feynman Loop Integrals with SAILIR](https://arxiv.org/abs/2604.05034) (2026)
     * [Retrieval-Augmented Question Answering over Scientific Literature for the Electron-Ion Collider](https://arxiv.org/abs/2604.02259) (2026)
@@ -2936,6 +2944,7 @@ const expandElements = shouldExpand => {
     ###  Parameter estimation
     </div>
 
+    * [Proton Structure from Neural Simulation-Based Inference at the LHC](https://arxiv.org/abs/2604.13157) (2026)
     * [Deep learning topological inference-guided $T_{cc}^{+}$ pole parameter extraction](https://arxiv.org/abs/2603.17763) (2026)
     * [A Simulation-Based Inference Evaluation of Tension Between MicroBooNE and MiniBooNE Results in a 3+1 Sterile Neutrino Global Fit](https://arxiv.org/abs/2603.15322) (2026)
     * [First Estimation of Model Parameters for Neutrino-Induced Nucleon Knockout Using Simulation-Based Inference](https://arxiv.org/abs/2603.09778) (2026)
@@ -3464,6 +3473,7 @@ const expandElements = shouldExpand => {
     ###  Searches and measurements where ML reconstruction is a core component
     </div>
 
+    * [Enhancing Event Reconstruction in Hyper-Kamiokande with Machine Learning: A ResNet Implementation](https://arxiv.org/abs/2604.13503) (2026)
     * [Search for long-lived charginos and $τ$-sleptons using final states with a disappearing track in $pp$ collisions at $\sqrt{s}](https://arxiv.org/abs/2603.08315) (2026)
     * [Modern jet flavour tagging in hadronic Z decays with archived ALEPH data](https://arxiv.org/abs/2603.06524) (2026)
     * [Search for heavy scalar resonances decaying to Lorentz-boosted Higgs and Higgs-like bosons in the $\mathrm{b\bar{b}}$4q final state at $\sqrt{s}$](https://arxiv.org/abs/2602.00273) (2026)

diff --git a/docs/recent.md b/docs/recent.md
@@ -10,6 +10,14 @@ search:
 This is an automatically compiled list of papers which have been added to the living review that were made public within the previous 4 months at the time of updating. This is not an exhaustive list of released papers, and is only able to find those which have both year and month data provided in the bib reference.
 
 ## April 2026
+* [Proton Structure from Neural Simulation-Based Inference at the LHC](https://arxiv.org/abs/2604.13157) (2026)
+* [Federated Learning with Quantum Enhanced LSTM for Applications in High Energy Physics](https://arxiv.org/abs/2604.15775) (2026)
+* [AI-assisted modeling and Bayesian inference of unpolarized quark transverse momentum distributions from Drell-Yan data](https://arxiv.org/abs/2604.14133) (2026)
+* [Enhancing Event Reconstruction in Hyper-Kamiokande with Machine Learning: A ResNet Implementation](https://arxiv.org/abs/2604.13503) (2026)
+* [Cross-Domain Transfer with Particle Physics Foundation Models: From Jets to Neutrino Interactions](https://arxiv.org/abs/2604.12364) (2026)
+* [An AI-based Detector Simulation and Reconstruction Model for the ALEPH Experiment at LEP](https://arxiv.org/abs/2604.11834) (2026)
+* [Machine learning for four-dimensional SU(3) lattice gauge theories](https://arxiv.org/abs/2604.12416) (2026)
+* [Radiatively Corrected Hybrid Inflation: Parameter Scans and Machine Learning with ACT and Future CMB Experiments](https://arxiv.org/abs/2604.11068) (2026)
 * [Machine Learning Study on Single Production of a Singlet Vector-like Lepton at the Large Hadron Collider](https://arxiv.org/abs/2604.11232) (2026)
 * [Particle transformers for identifying Lorentz-boosted Higgs bosons decaying to a pair of W bosons](https://arxiv.org/abs/2604.09809) (2026)
 * [Filtering hits for speeding up online track reconstruction at hadron colliders](https://arxiv.org/abs/2604.11648) (2026)
@@ -43,6 +51,7 @@ This is an automatically compiled list of papers which have been added to the li
 * [Xenon Signal Denoising via Supervised, Semi-Supervised, and Unsupervised Models](https://arxiv.org/abs/2603.27005) (2026)
 * [Agentic Diagrammatica: Towards Autonomous Symbolic Computation in High Energy Physics](https://arxiv.org/abs/2603.26990) (2026)
 * [Neural network enhanced Bayesian global analysis of relativistic heavy ion collisions](https://arxiv.org/abs/2603.26413) (2026)
+* [Symbolic Density Estimation: A Decompositional Approach](https://arxiv.org/abs/2603.27955) (2026)
 * [On the Codesign of Scientific Experiments and Industrial Systems](https://arxiv.org/abs/2603.26613) (2026)
 * [Vision Transformers and Graph Neural Networks for Charged Particle Tracking in the ATLAS Muon Spectrometer](https://arxiv.org/abs/2603.25793) (2026)
 * [Signal-Aware Contrastive Latent Spaces for Anomaly Detection](https://arxiv.org/abs/2603.25794) (2026)
